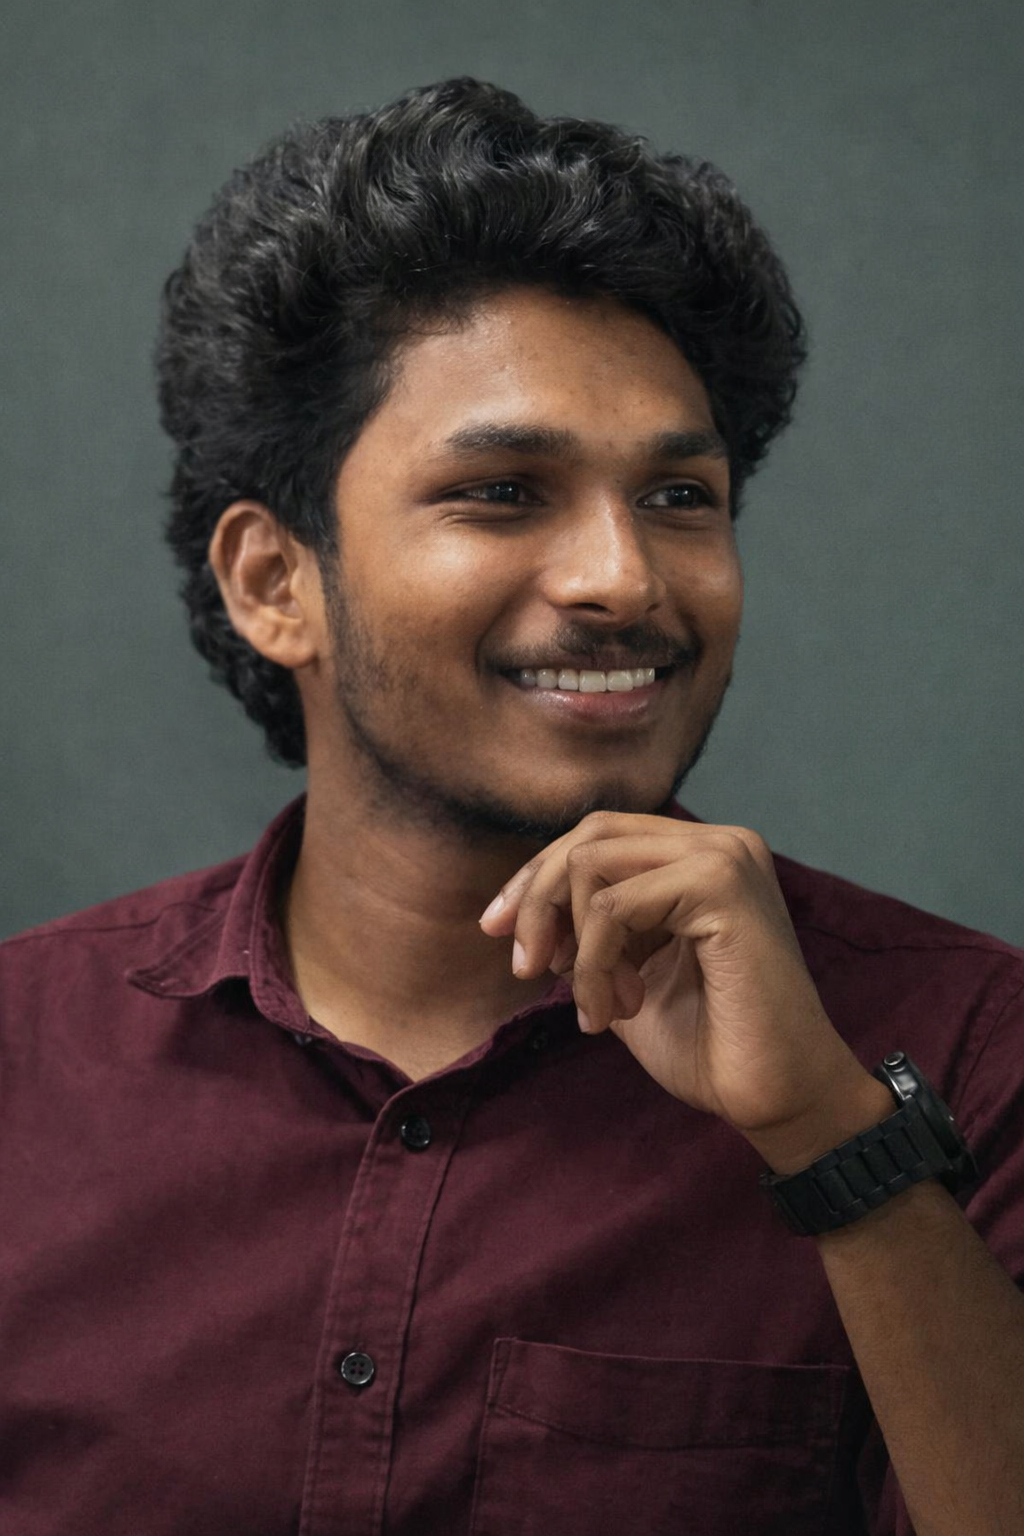
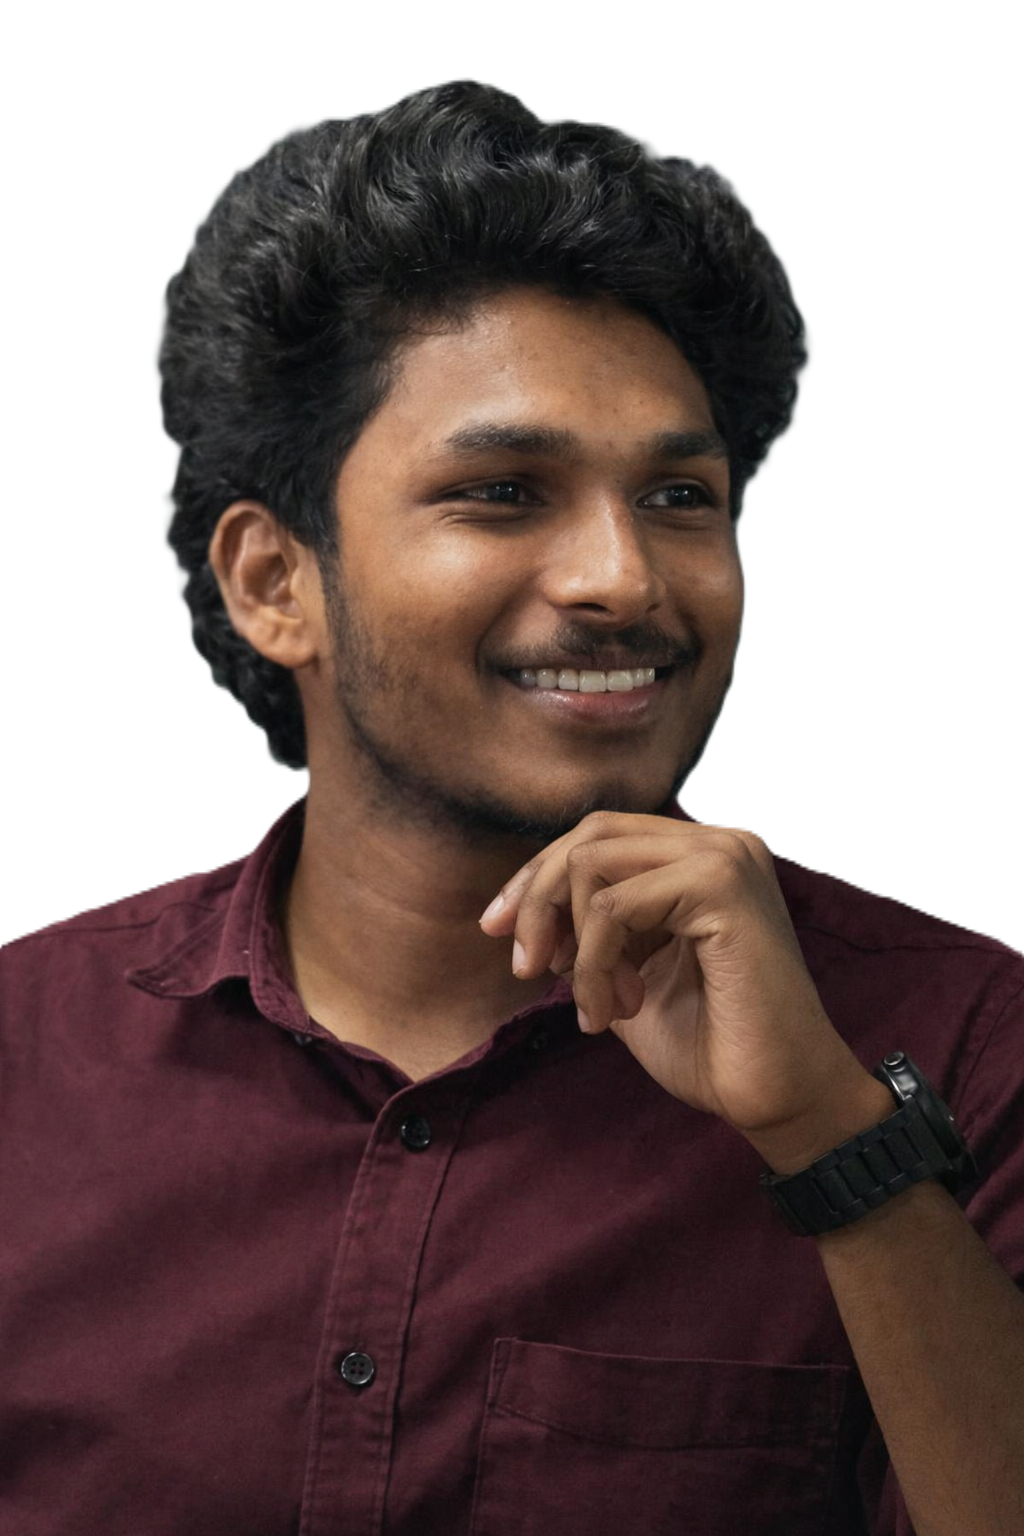
feat: implement experience timeline screen and add new portfolio assets

diff --git a/lib/screen/projects_screen.dart b/lib/screen/projects_screen.dart
@@ -71,7 +71,7 @@ class _ProjectsScreenState extends State<ProjectsScreen> {
                           Container(width: 30, height: 2, color: accentColor),
                           const SizedBox(width: 15),
                           Text(
-                            'ENGINEERING PORTFOLIO',
+                            'CRAFTED PROJECTS',
                             style: GoogleFonts.inter(
                               fontSize: 10,
                               fontWeight: FontWeight.w900,
@@ -95,7 +95,7 @@ class _ProjectsScreenState extends State<ProjectsScreen> {
                       duration: const Duration(milliseconds: 1000),
                       delay: const Duration(milliseconds: 200),
                       child: Text(
-                        "PROJECT\nCOLLECTION / 24",
+                        "PROJECT\nCOLLECTION ",
                         style: GoogleFonts.libreBodoni(
                           fontSize: isMobile ? 40 : 80,
                           fontWeight: FontWeight.w900,
@@ -174,16 +174,21 @@ class _ProjectRowState extends State<_ProjectRow> {
         child: AnimatedContainer(
           duration: const Duration(milliseconds: 400),
           curve: Curves.easeOutCubic,
-          padding: EdgeInsets.symmetric(vertical: isMobile ? 25 : 50, horizontal: 0),
+          padding: EdgeInsets.symmetric(
+            vertical: isMobile ? 25 : 50,
+            horizontal: 0,
+          ),
           decoration: BoxDecoration(
             border: Border(
               bottom: BorderSide(
-                color: widget.isDark ? Colors.white.withValues(alpha: 0.05) : Colors.black.withValues(alpha: 0.05),
+                color: widget.isDark
+                    ? Colors.white.withValues(alpha: 0.05)
+                    : Colors.black.withValues(alpha: 0.05),
               ),
             ),
-            color: _isHovered 
-              ? widget.accentColor.withValues(alpha: 0.015) 
-              : Colors.transparent,
+            color: _isHovered
+                ? widget.accentColor.withValues(alpha: 0.015)
+                : Colors.transparent,
           ),
           child: Row(
             children: [
@@ -192,29 +197,32 @@ class _ProjectRowState extends State<_ProjectRow> {
                 width: isMobile ? 30 : 60,
                 child: Text(
                   widget.project.index.toString().padLeft(2, '0'),
-                  style: GoogleFonts.spectral( // Using a serif for technical indicators
+                  style: GoogleFonts.spectral(
+                    // Using a serif for technical indicators
                     fontSize: 14,
                     fontWeight: FontWeight.w800,
                     fontStyle: FontStyle.italic,
-                    color: _isHovered ? widget.accentColor : (widget.isDark ? Colors.white24 : Colors.black26),
+                    color: _isHovered
+                        ? widget.accentColor
+                        : (widget.isDark ? Colors.white24 : Colors.black26),
                   ),
                 ),
               ),
               const SizedBox(width: 20),
-              
+
               // Project Info
               Expanded(
                 child: AnimatedDefaultTextStyle(
                   duration: const Duration(milliseconds: 300),
-                  child: Text(
-                    widget.project.title.toUpperCase(),
-                  ),
+                  child: Text(widget.project.title.toUpperCase()),
                   style: GoogleFonts.libreBodoni(
                     fontSize: isMobile ? 24 : 48,
                     fontWeight: FontWeight.w900,
                     height: 1,
                     letterSpacing: _isHovered ? 2 : -1,
-                    color: _isHovered ? widget.accentColor : (widget.isDark ? Colors.white : Colors.black87),
+                    color: _isHovered
+                        ? widget.accentColor
+                        : (widget.isDark ? Colors.white : Colors.black87),
                   ),
                 ),
               ),
@@ -232,18 +240,20 @@ class _ProjectRowState extends State<_ProjectRow> {
                     height: 160,
                     margin: EdgeInsets.only(right: _isHovered ? 20 : 40),
                     decoration: BoxDecoration(
-                      image: widget.project.thumbnailUrls.isNotEmpty 
-                        ? DecorationImage(
-                            image: AssetImage(widget.project.thumbnailUrls[0]), 
-                            fit: BoxFit.cover,
-                          )
-                        : null,
+                      image: widget.project.thumbnailUrls.isNotEmpty
+                          ? DecorationImage(
+                              image: AssetImage(
+                                widget.project.thumbnailUrls[0],
+                              ),
+                              fit: BoxFit.cover,
+                            )
+                          : null,
                       boxShadow: [
                         BoxShadow(
                           color: Colors.black.withValues(alpha: 0.2),
                           blurRadius: 30,
                           offset: const Offset(0, 15),
-                        )
+                        ),
                       ],
                     ),
                   ),
@@ -257,7 +267,9 @@ class _ProjectRowState extends State<_ProjectRow> {
                 child: Icon(
                   Icons.arrow_outward_rounded,
                   size: 24,
-                  color: _isHovered ? widget.accentColor : (widget.isDark ? Colors.white12 : Colors.black26),
+                  color: _isHovered
+                      ? widget.accentColor
+                      : (widget.isDark ? Colors.white12 : Colors.black26),
                 ),
               ),
             ],

diff --git a/lib/screen/contactme.dart b/lib/screen/contactme.dart
@@ -21,7 +21,9 @@ class _ContactMeState extends State<ContactMe> {
     final Uri uri = Uri.parse(url);
     if (!await launchUrl(uri, mode: LaunchMode.externalApplication)) {
       if (mounted) {
-        ScaffoldMessenger.of(context).showSnackBar(SnackBar(content: Text("Could not open $url")));
+        ScaffoldMessenger.of(
+          context,
+        ).showSnackBar(SnackBar(content: Text("Could not open $url")));
       }
     }
   }
@@ -132,19 +134,31 @@ class _ContactMeState extends State<ContactMe> {
         ZoomIn(
           duration: const Duration(milliseconds: 600),
           delay: const Duration(milliseconds: 600),
-          child: _SocialIcon(icon: FontAwesomeIcons.linkedin, url: 'https://linkedin.com/in/amal-mathew-1-/', accentColor: accentColor),
+          child: _SocialIcon(
+            icon: FontAwesomeIcons.linkedin,
+            url: 'https://linkedin.com/in/amal-mathew-1-/',
+            accentColor: accentColor,
+          ),
         ),
         const SizedBox(width: 30),
         ZoomIn(
           duration: const Duration(milliseconds: 600),
           delay: const Duration(milliseconds: 800),
-          child: _SocialIcon(icon: FontAwesomeIcons.github, url: 'https://github.com/amalmathew2003', accentColor: accentColor),
+          child: _SocialIcon(
+            icon: FontAwesomeIcons.github,
+            url: 'https://github.com/amalmathew2003',
+            accentColor: accentColor,
+          ),
         ),
         const SizedBox(width: 30),
         ZoomIn(
           duration: const Duration(milliseconds: 600),
           delay: const Duration(milliseconds: 1000),
-          child: _SocialIcon(icon: FontAwesomeIcons.instagram, url: 'https://instagram.com/', accentColor: accentColor),
+          child: _SocialIcon(
+            icon: FontAwesomeIcons.instagram,
+            url: 'https://instagram.com/',
+            accentColor: accentColor,
+          ),
         ),
       ],
     );
@@ -156,14 +170,16 @@ class _ContactMeState extends State<ContactMe> {
         Container(
           width: double.infinity,
           height: 1,
-          color: isDark ? Colors.white.withValues(alpha: 0.05) : Colors.black.withValues(alpha: 0.05),
+          color: isDark
+              ? Colors.white.withValues(alpha: 0.05)
+              : Colors.black.withValues(alpha: 0.05),
         ),
         const SizedBox(height: 40),
         Row(
           mainAxisAlignment: MainAxisAlignment.spaceBetween,
           children: [
             Text(
-              '© 2026 AMAL MATHEW',
+              '© ${DateTime.now().year} AMAL MATHEW',
               style: GoogleFonts.inter(
                 fontSize: 10,
                 fontWeight: FontWeight.w900,
@@ -172,7 +188,7 @@ class _ContactMeState extends State<ContactMe> {
               ),
             ),
             Text(
-              'ENGINEERED BY AMAL',
+              'DEVELOPED BY AMAL MATHEW',
               style: GoogleFonts.inter(
                 fontSize: 10,
                 fontWeight: FontWeight.w900,
@@ -192,7 +208,11 @@ class _SocialIcon extends StatelessWidget {
   final String url;
   final Color accentColor;
 
-  const _SocialIcon({required this.icon, required this.url, required this.accentColor});
+  const _SocialIcon({
+    required this.icon,
+    required this.url,
+    required this.accentColor,
+  });
 
   @override
   Widget build(BuildContext context) {

diff --git a/lib/screen/aboutme.dart b/lib/screen/aboutme.dart
@@ -139,7 +139,7 @@ class _AboutMeState extends State<AboutMe> with SingleTickerProviderStateMixin {
           children: [
             Positioned.fill(
               child: Image.asset(
-                'assets/images/portfolio.png', // Reusing the asset
+                'assets/images/portfolio4.png', // Reusing the asset
                 fit: BoxFit.cover,
                 opacity: const AlwaysStoppedAnimation(0.9),
               ),
@@ -154,7 +154,7 @@ class _AboutMeState extends State<AboutMe> with SingleTickerProviderStateMixin {
                 ),
                 color: accentColor,
                 child: Text(
-                  'ENGINEERED',
+                  'DEVELOPER',
                   style: GoogleFonts.inter(
                     fontSize: 8,
                     fontWeight: FontWeight.w900,

diff --git a/lib/screen/desktop_screen.dart b/lib/screen/desktop_screen.dart
@@ -127,7 +127,7 @@ class _DesktopScreenState extends State<DesktopScreen>
                     height: size.height * 0.7,
                     decoration: BoxDecoration(
                       image: const DecorationImage(
-                        image: AssetImage('assets/images/portfolio1.png'),
+                        image: AssetImage('assets/images/portfolio2.png'),
                         fit: BoxFit.contain,
                       ),
                       boxShadow: isDark

diff --git a/lib/screen/experience_screen.dart b/lib/screen/experience_screen.dart
@@ -16,7 +16,7 @@ class _ExperienceScreenState extends State<ExperienceScreen> {
 
   final List<ExperienceData> experiences = [
     ExperienceData(
-      company: "Avanzo Cyber Security Solutions",
+      company: "Avanzo  Cyber  Security  Solutions",
       location: "Thrissur, Kerala",
       role: "Flutter Developer",
       period: "2024 - PRESENT",
